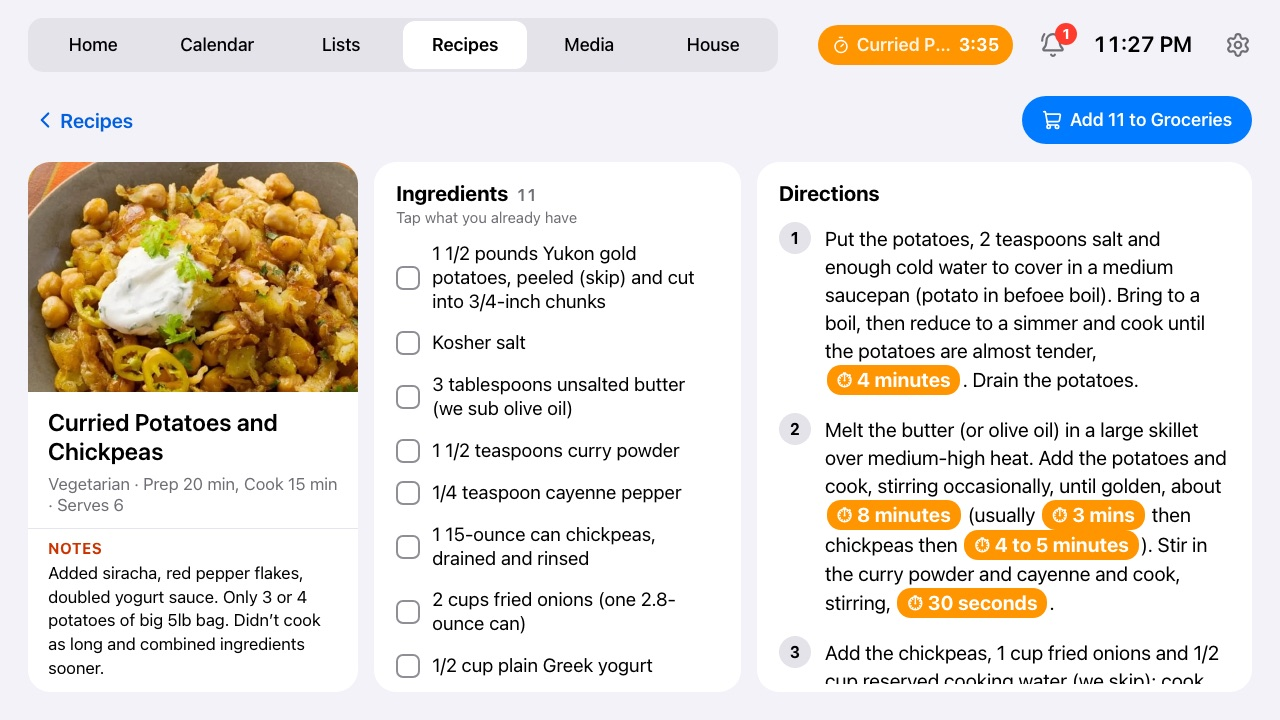
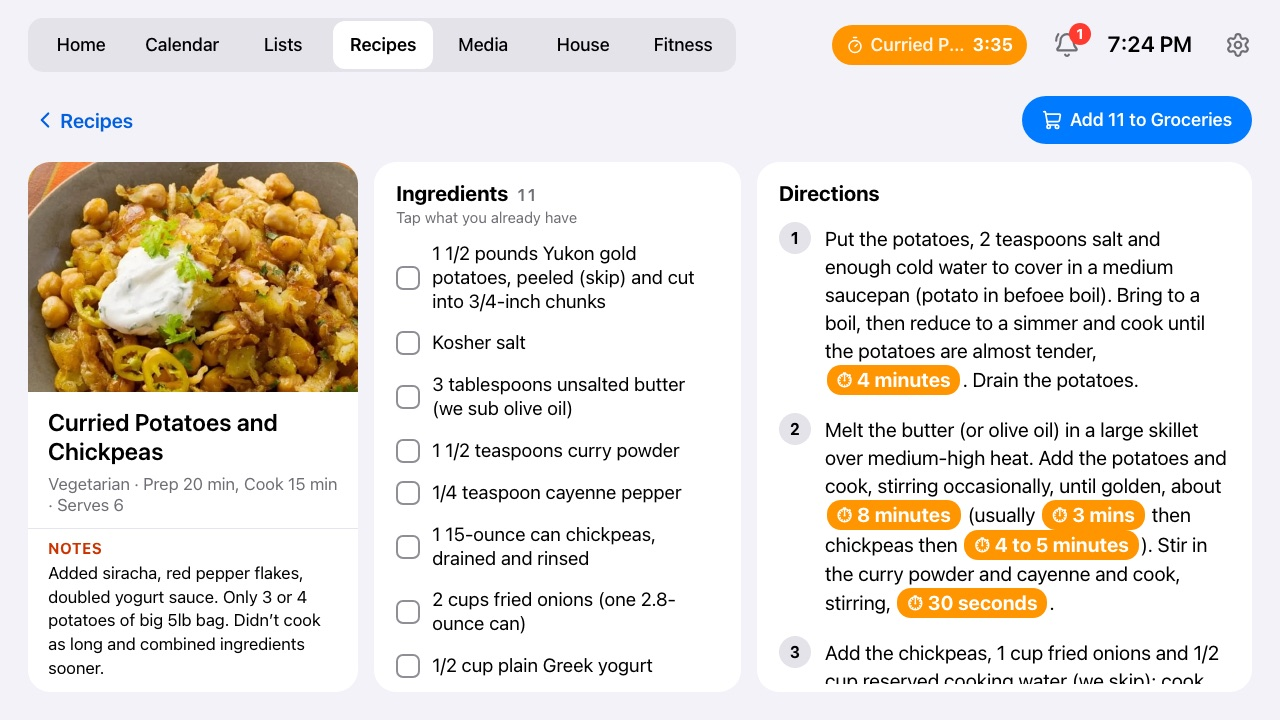
Docs and screenshots: Fitness, guest mode, calendar refresh
docs/fitness.md (what it shows, setup, freshness, guest mode, privacy),
the README's tables and new screenshots (all retaken in demo mode), the
iOS README (Apple Health, Ops, guest mode), calendar (CALENDAR_REFRESH
and backoff) and Alexa (fitness, guest mode) pages, and the roadmap.

Claude-Session: claude --resume 8ada97f6-6e94-4d2f-928b-faf4e0c7a67c

diff --git a/README.md b/README.md
@@ -26,15 +26,20 @@ lists other frames that work.
 | --- | --- | --- |
 | ![Media: videos](docs/images/videos-light.jpg) | ![Media: podcasts](docs/images/podcasts-light.jpg) | ![Weather radar](docs/images/weather-light.jpg) |
 
+| Fitness, from each person's iPhone | A workout (tap it) | An event (tap it) |
+| --- | --- | --- |
+| ![Fitness](docs/images/fitness-light.jpg) | ![Workout](docs/images/workout-dark.jpg) | ![Event](docs/images/event-light.jpg) |
+
 Screenshots use the built-in demo mode (Settings → About → Demo mode, or `?demo=on`): the calendar,
-lists, rotations and notices are invented, the meal plan is made from Paprika recipes, and the slideshow
+lists, rotations, notices and two people's fitness are invented, the meal plan is made from Paprika recipes, and the slideshow
 shows stock photos from [Lorem Picsum](https://picsum.photos). With Home Assistant connected, House and
 Media show the real devices and speakers under made-up names (`DEMO_NAMES`, so "Mom" rather than a
 real name), stock camera pictures and public playlists, and the radar is centred on Kansas City rather
 than home. The weather is real. It's also handy for showing the frame to people without your own
 calendar and lists on it. `?tab=`, `?media=tv|videos|podcasts`, `?open=<recipe id>`,
-`?explore=<category>`, `?timer=Pasta:7`, `?weather=<day>` (with `&radar` for the radar) and
-`?settings=<tab>` set up a particular screen.
+`?explore=<category>`, `?timer=Pasta:7`, `?weather=<day>` (with `&radar` for the radar),
+`?settings=<tab>`, `?workout=<n>` and `?fitnessday=<n>` (with `?tab=fitness`), `?notices=<n>` and
+`?np=off` (nothing playing) set up a particular screen.
 
 ## Thanks
 
@@ -77,23 +82,24 @@ Each feature links to its page in [`docs/`](docs/), which has the setup and the 
 | **[Rotations](docs/rotations.md)** | New | Who's up early with the kids, whose turn for bedtime, on Home's Today card. |
 | **[Timers](docs/timers.md)** | New | Tap a time, then a name (Pasta, Oven). Times in recipe directions are buttons. A chip on every screen, then a chime, a full-screen alert and an Echo announcement. |
 | **[Lists](docs/lists.md)** | Updated | Groceries and Tasks in one tab, and side by side on Home. Each from Todoist or, through a Mac at home, Apple Reminders (Siri, the watch and the phone, two-way within seconds), with priorities, due times, aisles and flags. Tap an item to edit it; ticking one gives a few seconds to undo. |
-| **[Alexa](docs/alexa.md)** | New | Your own private Alexa skill: "Alexa, ask Kitchen Frame to add eggs to groceries" (the frame then shows the list), show a tab, start the slideshow, play a group of videos or a podcast on the Echo, what's for dinner, or the rundown of the day. What each Echo heard and what the skill did are logged on the status page. |
+| **[Alexa](docs/alexa.md)** | New | Your own private Alexa skill: "Alexa, ask Kitchen Frame to add eggs to groceries" (the frame then shows the list), show a tab, start the slideshow, play a group of videos or a podcast on the Echo, what's for dinner, the rundown of the day, how's my fitness (an AI summary of the rings, the week and workouts), or guest mode on. What each Echo heard and what the skill did are logged on the status page. |
 
 ### At a glance
 
 | Feature | | What it does |
 | --- | --- | --- |
+| **[Fitness](docs/fitness.md)** | New | Each person's Activity rings, steps and recent workouts from their own iPhone: a Fitness tab with the last 7 days (tap a day), streaks and today against their usual, workout details (tap one), and their rings on Home under the clock. Behind on a ring stands out; all three closed gets a check. **Guest mode** hides it all while there's company. |
 | **[Weather](docs/weather.md)** | Updated | The UV right now on Home (for sunscreen) and a three-day forecast. Tap for a day's sheet: the National Weather Service forecast text (US), alerts, hours ahead, wind, the day's peak UV, sun times, and a **radar** of the last hour and the next two. |
-| **[Calendar](docs/calendar.md)** | Updated | Upcoming grouped by day, colours and names per calendar, tap an event for its details, a map of where it is, and notes on the calendars you choose, hide any calendar per frame, `#private` to keep an event off the frame, and `#quiet` to show it but never announce it. |
+| **[Calendar](docs/calendar.md)** | Updated | Upcoming grouped by day, colours and names per calendar, tap an event for its details, a map of where it is, and notes on the calendars you choose, hide any calendar per frame, `#private` to keep an event off the frame, and `#quiet` to show it but never announce it. A failing feed is retried less and less often while its last good events stay up, and a feed that rarely changes (a season's games) can be fetched only every few hours. |
 | **Settings** | Updated | In tabs (Display, Announcements, Home, About), backed up to the Worker (after a reset the frame takes its choices back), with the version and build time on About, and a QR code to pair the iPhone app. Demo mode shows invented calendars and lists, and with Home Assistant connected, the real House and Media under made-up names. |
 | **Clock screen** | Updated | Never while a recipe is open or a timer is running; 30 minutes by default (up to two hours); a red night clock that brightens a little when someone's in the room. Classic iCloud shared album links work for the slideshow, and through the Mac, album videos play in it and photos show when and where they were taken. |
-| **[Status page](docs/frame.md#status-page-optional)** | New | A private page behind GitHub sign-in: is the frame online and what is it running, a day's timeline, its event log, the Alexa log, and the health of everything behind the dashboard. |
+| **[Status page](docs/frame.md#status-page-optional)** | New | A private page behind GitHub sign-in: is the frame online and what is it running, a day's timeline, its event log, the Alexa log, and the health of everything behind the dashboard: each feed, the Paprika sync's last check, each phone's last fitness send. |
 
 ### On your phone
 
 | Feature | | What it does |
 | --- | --- | --- |
-| **[iPhone app](ios/README.md)** | New | Share a photo or video from Photos to the frame, full screen with pinch-to-zoom and when and where it was taken, or a YouTube link to play there. A remote to show any screen, start the slideshow or wake it. Pairs by scanning a QR code on the frame; built with Xcode, not from the App Store. |
+| **[iPhone app](ios/README.md)** | New | Share a photo or video from Photos to the frame, full screen with pinch-to-zoom and when and where it was taken, or a YouTube link to play there. A remote to show any screen, start the slideshow, wake it or turn on guest mode. Its owner's Activity rings and workouts for [Fitness](docs/fitness.md), from Apple Health. The status page as an Ops tab. Pairs by scanning a QR code on the frame; built with Xcode, not from the App Store. |
 
 ## How it fits together
 
@@ -311,6 +317,14 @@ it streams. Every HA event entity with device class `doorbell` is watched, with 
 so there's nothing to configure in the usual case (`DOORBELL` / `DOORBELL_CAMERA` override it).
 [docs/doorbell.md](docs/doorbell.md).
 
+### Fitness
+
+With each person's iPhone app: their Activity rings, steps and recent workouts on a Fitness tab
+(today, the last 7 days, streaks and today against their usual, a workout's details on a tap) and
+their rings on Home. Only those numbers leave the phone, and average heart rate only if its owner
+turns it on. **Guest mode** (on the frame, the app's Remote tab, or Alexa to turn it on) hides it while guests
+are over. [docs/fitness.md](docs/fitness.md).
+
 ### Notices
 
 With Home Assistant: short banners from its automations that clear themselves ("Garage freezer is 18°F"), red,
@@ -330,7 +344,8 @@ speaker's own back afterwards. [docs/announcements.md](docs/announcements.md).
 ### Alexa
 
 A skill of your own on your Amazon account, in development, never published: "Alexa, ask Kitchen Frame
-to add eggs to groceries", "…show the calendar", "…play Trucks videos", "…what's for dinner", "…for the rundown".
+to add eggs to groceries", "…show the calendar", "…play Trucks videos", "…what's for dinner", "…for the rundown",
+"…how's my fitness", "…we have guests".
 [docs/alexa.md](docs/alexa.md).
 
 ### Messages from agents
@@ -342,8 +357,10 @@ aloud. [docs/messages.md](docs/messages.md).
 
 A small app built with Xcode (a free Apple account is enough for your own phone). From the share sheet,
 a photo or video shows full screen on the frame (pinch to zoom, with when and where it was taken),
-and a YouTube link plays there. It's also a remote for showing any screen, starting the slideshow or
-waking the frame. It pairs by scanning a QR code in the frame's Settings. [ios/README.md](ios/README.md).
+and a YouTube link plays there. It's also a remote for showing any screen, starting the slideshow,
+waking the frame or turning on guest mode; sends its owner's Activity rings and workouts for
+[Fitness](docs/fitness.md); and has the status page as an Ops tab. It pairs by scanning a QR code in
+the frame's Settings. [ios/README.md](ios/README.md).
 
 ## The frame
 

diff --git a/docs/fitness.md b/docs/fitness.md
@@ -1,0 +1,84 @@
+# Fitness
+
+Each person's Apple Watch Activity rings, steps and recent workouts on the frame: a **Fitness** tab,
+their rings on Home, and "how's my fitness" through [Alexa](alexa.md). Every person's own iPhone sends
+their numbers, through the [iPhone app](../ios/README.md); nothing else from Health leaves the phone.
+
+![Fitness](images/fitness-light.jpg)
+
+## What it shows
+
+- **Today:** the three rings and their numbers against the person's own goals, today's steps and
+  distance, and a line on how the day is going against the time of day: on track, behind on a ring
+  (in that ring's colour, which pulses a few times), or all three closed (a check in the rings, and a
+  small bounce once as the tab opens).
+- **The last 7 days** as small rings. Tap one for that day's numbers, steps and minutes of workouts.
+- **Trends**, from the last 4 weeks: a streak (days in a row with Move closed, or all three), today's
+  steps and exercise against the person's usual by this time of day, and how many days had a workout.
+- **Recent workouts** from the last 2 weeks. Tap one for its details: time, distance, active and total
+  calories, elevation gain, pace or speed, the effort the Watch recorded, the weather, and average heart
+  rate if its owner chose to share it.
+- **Home:** each person's rings under the clock when notices and Now Playing leave room (with the three
+  numbers, or a short status when it's tight), else small rings beside the date. Tap to open Fitness.
+
+Numbers a few hours old are faded with "Updated 4 hr ago", so a phone that stopped sending never looks
+current.
+
+## Set it up
+
+1. Build the [iPhone app](../ios/README.md) with the HealthKit capability (in `ios/project.yml`; a free
+   Apple account can sign it) and pair it with the frame.
+2. In the app: **Settings → Apple Health**, type your name as the frame should show it, and turn on
+   **Share Fitness on the frame**. Allow the Health access it asks for. **Average heart rate on
+   workouts** is a separate switch, off until turned on.
+3. Repeat on each person's phone. Up to six people.
+
+The Fitness tab appears once someone shares (or in demo mode). Turning sharing off removes that
+person from the frame at once; turning it back on shows them again within seconds.
+
+## How fresh it is
+
+The phone sends when the app opens, as soon as Health saves a workout, and when Health has new ring
+data, which iOS allows at most hourly and only while the phone has been unlocked since. A phone that
+was just locked all evening catches up when it's next used. Settings → Apple Health on the phone lists
+the day's sends and why; the status page and the app's Ops tab show each person's last send, amber
+after 12 hours and red after 36.
+
+After the app is installed or updated, open it once: iOS doesn't wake an app in the background until
+it has run.
+
+## Guest mode
+
+Hides personal things on the frame while guests are over; for now, Fitness: no tab, no rings on Home,
+and Alexa won't read it. Turn it on from the frame (Settings → Display → Guest mode), the app's **Remote** tab, or Alexa ("we
+have guests"); turn it off from the frame (which asks for the unlock PIN when one is set) or the app.
+Not by voice: anyone in the kitchen can talk to an Echo. It stays on until turned off. While it's on, the Worker sends nobody's fitness
+to the frame at all.
+
+## Privacy
+
+What a phone sends: the last 4 weeks of daily ring totals and goals, each day's steps and minutes of
+workouts, today's steps and walking distance, and the last 5 workouts of the last 2 weeks (type,
+start, length, calories, distance, climb, effort, the weather recorded with it, and average heart rate
+only when that switch is on). No routes, places, heart-rate samples or anything else from Health.
+
+The Worker keeps each phone's latest report as one KV entry (by a random id the phone makes, not the
+typed name), behind the dashboard key, and replaces it on every send. Turning sharing off or unpairing
+deletes it, and one that hasn't been sent for 14 days (a phone unpaired offline, the app deleted) goes
+by itself. Alexa's spoken summary is worded by an open-weight model on Cloudflare's Workers AI from
+these numbers (names, rings, steps, streaks, the latest workouts; no heart rate), cached for half an
+hour; without the model, the same facts are read out plainly. The Alexa log on the status page notes
+that a summary was given, not what it said.
+
+## How it works
+
+| Part | Where |
+| --- | --- |
+| Reading Health, sending | `ios/KitchenFrame/Fitness.swift` (HealthKit; background delivery wakes it for new data) |
+| Storing | `dashboard/worker/fitness.js`: `GET`, `POST`, `DELETE /api/fitness` |
+| Guest mode | `dashboard/worker/guest.js`, kept in the message room (`messages.js`) so a change reaches the frame at once |
+| The tab and Home | `dashboard/src/views/Fitness.svelte`, `components/HomeRings.svelte`, `Rings.svelte`, `WorkoutSheet.svelte`; the numbers in `src/lib/fitness.js` |
+| Alexa | `dashboard/worker/fitness-speech.js` |
+
+Screenshots: `?tab=fitness` in demo mode, `&workout=<n>` opens a workout, `&fitnessday=<n>` a day's
+numbers.

diff --git a/ROADMAP.md b/ROADMAP.md
@@ -54,6 +54,17 @@ Thoughts to try in a branch and measure on the frame, not plans:
 - **Countdowns:** "12 days to the beach" for chosen events, on Home or the clock screen.
 - **Two columns per day** in Upcoming when a day is busy.
 
+## Fitness
+
+- **A "check your rings" nudge, opt in per person:** a frame notice in the evening (say 7 PM) when a
+  ring is behind for the time of day, gone by itself once the ring closes or at 10 PM, never kept
+  in the notices history. A setting on the phone (Settings → Apple Health), off by default; maybe
+  spoken on one Echo instead, if a notice turns out too easy to ignore.
+- **Another person's rings:** HealthKit only gives an app its phone owner's data, so
+  the Kitchen Frame app on their phone, or a Shortcut posting the same numbers.
+- **Who is asking Alexa:** with Alexa voice profiles, "how's my fitness" could answer for the
+  speaker only, rather than everyone sharing.
+
 ## Lists
 
 - **Aisles for Groceries from Todoist, by AI:** group the list into sections (Produce, Dairy,
@@ -85,8 +96,11 @@ erroring (`lib/watchdog.js`). Next:
 
 - **Smoke test as a deploy gate:** `scripts/smoke.mjs` already opens every screen of a new build on
   the real data and in demo mode and fails on any error (it would have stopped the white frame of
-  2026-10-19). Run it from `npm run deploy` before `wrangler deploy`, with a way around it for an
-  emergency fix.
+  2026-10-19). Run it from `npm run deploy` before `wrangler deploy`, gated on its exit code, with a
+  way around it for an emergency fix. Two things to fix first: `vite preview` (with the Cloudflare
+  plugin) runs the Worker locally against an empty local KV, so "real data" isn't the live Worker's
+  stored data (Fitness, notices, Paprika); and one run had 19 of 30 screens fail that passed on a
+  rerun, so retry a failing screen once and print why it failed.
 - **Roll back on its own:** after a deploy, if the frame hasn't checked in on the new build within a
   few minutes, `wrangler rollback` to the version before and say so.
 - **Tell someone when the frame goes quiet:** a Home Assistant notification to a phone when the frame
@@ -114,9 +128,6 @@ erroring (`lib/watchdog.js`). Next:
   Drawing the page to an image in the browser instead would miss video and load the frame's CPU.
 - **A PIN for Settings:** unlocking has one (Settings → Home). Settings changes are logged and the
   last 10 versions kept, so a PIN there waits until a change slips by unnoticed.
-- **Calmer calendar blips on the status page:** a feed that fails once (a sports site refusing a
-  cloud server now and then) shows red "failing" until the next fetch. Amber "last fetch failed,
-  showing the copy from 12 min ago" instead, and red only after a few hours without a good fetch.
 
 ## Home Assistant
 

diff --git a/docs/calendar.md b/docs/calendar.md
@@ -57,6 +57,7 @@ All optional, comma-separated, in the same order as `CALENDAR_URLS`:
 | --- | --- |
 | `CALENDAR_NAMES` | Names in the frame's **Calendars** list, when a feed's own name isn't useful (Exchange calls everything "Calendar"). |
 | `CALENDAR_DETAILS` | `yes` for calendars whose events open with their details when tapped; others (unset or `no`) don't. See [Event details](#event-details). |
+| `CALENDAR_REFRESH` | Hours between fetches of that feed (blank: every 10 minutes). For a feed that rarely changes, such as a season's game schedule, or a site that refuses a cloud server asking often. |
 | `CALENDAR_COLORS` | Each calendar's colour, to match your phone say: `red`, `orange`, `yellow`, `green`, `teal`, `blue`, `indigo`, `purple`, `pink`, `brown`, `gray`, or `#rrggbb`. Unset ones rotate through red, blue, green, purple, orange, teal. Named colours have light and dark versions that follow the frame's theme. |
 
 On the frame, **Calendars** (on Home or the Calendar tab) shows or hides each calendar on that device;
@@ -112,7 +113,9 @@ A cron job fetches every feed into KV every 10 minutes (a calendar from the Mac 
 when it changes instead), and writes KV only when something changed (or
 hourly, to show it's alive). The frame asks the Worker every 5 minutes; Settings → **Reload** pulls
 fresh from the feeds right away. If one feed fails, its last good events stay up and the others carry
-on.
+on, and that feed is tried again after 10 minutes, then 20, 40 and so on, up to 6 hours. The status
+page shows it on the calendar's own row: amber while its last good copy is under two days old, red
+after that.
 
 The free Workers plan allows 10 ms of CPU per cron run (Workers Paid allows 30 s). Old one-off events
 are skipped before parsing and long-running repeats are fast-forwarded, so a typical family calendar

diff --git a/docs/alexa.md b/docs/alexa.md
@@ -33,6 +33,8 @@ same and give the same advice. (Use two words for the name; Amazon discourages o
 | play Trucks videos · play videos | Plays that Media → Videos group on the frame, least recently played first, muted until someone taps it (the frame's browser needs a tap before it plays sound) |
 | play Science Friday podcast · play my podcast | Plays a podcast on the Echo (Apple Podcasts through the Mac: [music](music.md#podcasts-apple-podcasts-through-the-mac)): that show's half-played or newest episode, or the one just picked on the frame; "pause", "resume", "start over" and "stop" work while it plays |
 | what's for dinner | Says tonight's dinner from the Paprika meal plan, and opens its recipe on the frame (Recipes → Meals when there are several) |
+| how's my fitness · how are my rings · check my rings | Shows Fitness on the frame and reads a short summary for each person sharing ([fitness](fitness.md)): how today is going, a streak or pattern from the week, the latest workout and, if a ring is open, a small suggestion. Worded by a model on Workers AI from the numbers, or the plain numbers when it isn't available. Not while guest mode is on |
+| we have guests · turn on guest mode | Guest mode on: personal things (Fitness) hidden on the frame while guests are over ([fitness](fitness.md#guest-mode)). Turning it off is on the frame or the phone app, not by voice |
 | what's on my calendar today · the rundown | Shows Home on the frame and reads its Today card in order: who's up early, today's meals, today's events, bedtime ([rotations](rotations.md)), at the Echo's own time |
 
 In demo mode the frame tells the Worker, and the rundown and dinner read the frame's invented day.
